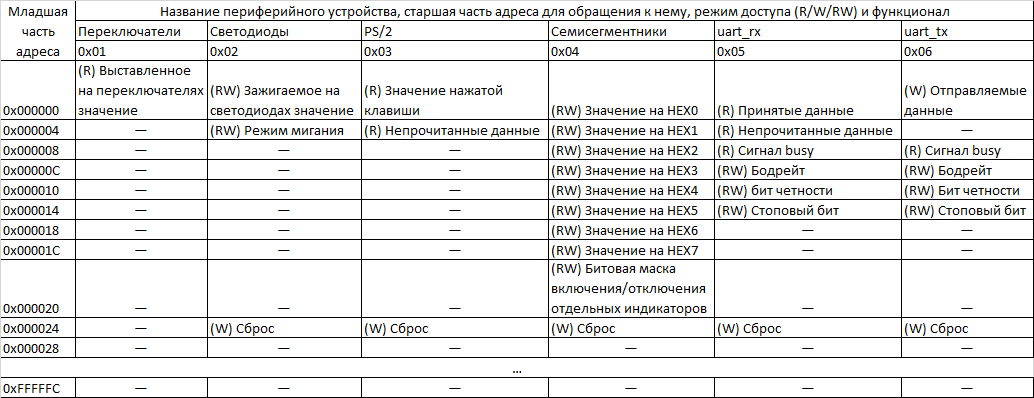
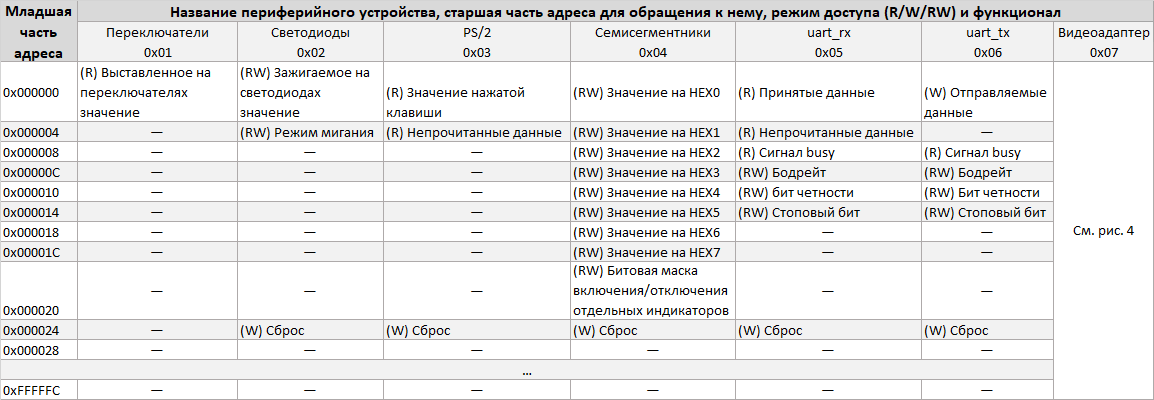
ЛР12. Обновление методички

diff --git a/Labs/12. Peripheral units/README.md b/Labs/12. Peripheral units/README.md
@@ -44,6 +44,7 @@
 4. Семисегментные индикаторы
 5. UART-приемник
 6. UART-передатчик
+7. Видеоадаптер
 
 В таком случае, если мы захотим обратиться в четвертый регистр семисегментных индикаторов, мы должны будем использовать адрес `0x03000004`. Старшие 8 бит (`0x03`) определяют выбранное периферийное устройство, оставшиеся 24 бита определяют конкретный адрес в адресном пространстве этого устройства.
 
@@ -81,19 +82,30 @@ module riscv_unit(
 
   // Входы и выходы периферии
   input  logic [15:0] sw_i,       // Переключатели
+
   output logic [15:0] led_o,      // Светодиоды
+
   input  logic        kclk_i,     // Тактирующий сигнал клавиатуры
   input  logic        kdata_i,    // Сигнал данных клавиатуры
+
   output logic [ 6:0] hex_led_o,  // Вывод семисегментных индикаторов
   output logic [ 7:0] hex_sel_o,  // Селектор семисегментных индикаторов
+
   input  logic        rx_i,       // Линия приема по UART
-  output logic        tx_o        // Линия передачи по UART
+  output logic        tx_o,       // Линия передачи по UART
+
+  output logic [3:0]  vga_r_o,    // красный канал vga
+  output logic [3:0]  vga_g_o,    // зеленый канал vga
+  output logic [3:0]  vga_b_o,    // синий канал vga
+  output logic        vga_hs_o,   // линия горизонтальной синхронизации vga
+  output logic        vga_vs_o    // линия вертикальной синхронизации vga
+
 );
 //...
 endmodule
 ```
 
-Эти порты нужно подключить к одноименным портам ваших контроллеров периферии (**речь идет только о реализуемых вами контроллерах, остальные порты должны остаться неподключенными**).
+Эти порты нужно подключить к одноименным портам ваших контроллеров периферии (**речь идет только о реализуемых вами контроллерах, остальные порты должны остаться неподключенными**). Иными словами, в описании модуля должны быть все указанные входы и выходы. Но использовать вам нужно только порты, связанные с теми периферийными устройствами, реализацию которых вам необходимо подключить к процессорной системе в рамках индивидуального задания.
 
 Обратите внимание на то, что изменился сигнал сброса (`resetn_i`). Буква `n` на конце означает, что сброс работает по уровню `0` (когда сигнал равен нулю — это сброс, когда единице — не сброс).
 
@@ -119,6 +131,8 @@ sys_clk_rst_gen divider(.ex_clk_i(clk_i),.ex_areset_n_i(resetn_i),.div_i(10),.sy
 
 ![Карта памяти](../../.pic/Labs/lab_12_periph/fig_02.png)
 
+_Рисунок 2. Карта памяти периферийных устройств_
+
 Работа с картой осуществляется следующим образом. Под названием каждого периферийного устройства указана старшая часть адреса (чему должны быть равны старшие 8 бит адреса, чтобы было сформировано обращение к данному периферийному устройству). Например, для переключателей это значение равно `0x01`, для светодиодов `0x02` и т.п.
 В самом левом столбце указаны используемые/неиспользуемые адреса в адресном пространстве данного периферийного устройства. Например для переключателей есть только один используемый адрес: `0x000000`. Его функциональное назначение и разрешения на доступ указаны в столбце соответствующего периферийного устройства. Возвращаясь к адресу `0x000000` для переключателей мы видим следующее:
 
@@ -134,6 +148,8 @@ sys_clk_rst_gen divider(.ex_clk_i(clk_i),.ex_areset_n_i(resetn_i),.div_i(10),.sy
 
 Подробное описание периферийных устройств их управления и назначение управляющих регистров будет дано после порядка выполнения задания.
 
+Обратите внимание на то, что у всех модулей периферийных устройств есть выходной сигнал `ready_o`, который должен быть всегда равен единице.
+
 ---
 
 ## Порядок выполнения задания
@@ -143,13 +159,12 @@ sys_clk_rst_gen divider(.ex_clk_i(clk_i),.ex_areset_n_i(resetn_i),.div_i(10),.sy
 3. Реализуйте модули контроллеров периферии. Имена модулей и их порты будут указаны в [описании контроллеров](#описание-контроллеров-периферийных-устройств). Пример разработки контроллера приведен [здесь](../../Basic%20Verilog%20structures/Controllers.md).
 4. Обновите модуль `riscv_unit` в соответствии с разделом ["Дополнительные правки модуля riscv_unit"](#дополнительные-правки-модуля-riscv_unit).
    1. Подключите в проект файл `sys_clk_rst_gen.sv`.
-   2. Добавьте в модуль `riscv_unit` входы и выходы периферии. Необходимо добавить порты даже тех периферийных устройств, которые вы не будете реализовывать.
+   2. Добавьте в модуль `riscv_unit` входы и выходы периферии. **Необходимо добавить порты даже тех периферийных устройств, которые вы не будете реализовывать**.
    3. Создайте в начале описания модуля `riscv_unit` экземпляр модуля `sys_clk_rst_gen`, скопировав приведенный фрагмент кода.
    4. Замените подключение тактового сигнала исходных подмодулей `riscv_unit` на появившийся сигнал `sysclk`. Убедитесь, что на модули имеющие сигнал сброса приходит сигнал `rst`.
 5. Интегрируйте модули контроллеров периферии в процессорную систему по приведенной схеме руководствуясь старшими адресами контроллеров, представленными на карте памяти ([_рис. 2_](../../.pic/Labs/lab_12_periph/fig_02.png)). Это означает, что если вы реализуете контроллер светодиодов, на его вход `req_i` должна подаваться единица в случае если `mem_req_o == 1` и старшие 8 бит адреса равны `0x02`.
    1. При интеграции вы должны подключить только модули-контроллеры вашего варианта. Контроллеры периферии других вариантов подключать не надо.
    2. При этом во время интеграции, вы должны использовать старшую часть адреса, представленную в карте памяти для формирования сигнала `req_i` для ваших модулей-контроллеров.
-   3. Даже если вы не используете какие-то входные/выходные сигналы в модуле `riscv_unit` (например по варианту вам не достался контроллер клавиатуры и поэтому вы не используете сигналы `kclk_i` и `kdata_i`), вы все равно должны их описать во входах и выходах модуля `riscv_unit`.
 6. Проверьте работу процессорной системы с помощью моделирования.
    1. Для каждой пары контроллеров периферии предложено две программы: с обновлением данных по опросу и по прерываниям. Запустите моделирование сначала для одной программы, затем для другой (для этого необходимо обновить файл, инициализирующий память инструкций). После проверки работоспособности процессора, сравните поведение сигналов LSU для этих программ.
 7. Подключите к проекту файл ограничений ([nexys_a7_100t.xdc](nexys_a7_100t.xdc)), если тот еще не был подключен, либо замените его содержимое данными из файла к этой лабораторной работе.
@@ -342,6 +357,8 @@ endmodule
 
 В случае, если произошел запрос на чтение по адресу `0x00`, необходимо выставить на выход `read_data_o` значение регистра `scan_code` (дополнив старшие биты нулями), при этом значение регистра `scan_code_is_unread` необходимо обнулить. В случае, если одновременно с запросом на чтение пришел сигнал `keycode_valid_o`, регистр `scan_code_is_unread` обнулять не нужно (в этот момент в регистр `scan_code` уже записывается новое, еще непрочитанное значение).
 
+Обнуление регистра `scan_code_is_unread` должно происходить и в случае получения сигнала `interrupt_return_i` (однако опять же, если в этот момент приходит сигнал `keycode_valid_o`, обнулять регистр не нужно).
+
 В случае запроса на чтение по адресу `0x04` необходимо вернуть значение регистра `scan_code_is_unread`.
 
 В случае запроса на запись по адресу `0x24` со значением `1`, необходимо осуществить сброс регистров `scan_code` и `scan_code_is_unread` в `0`.
@@ -505,6 +522,7 @@ module uart_rx_sb_ctrl(
 */
 
   output logic        interrupt_request_o,
+  input  logic        interrupt_return_i,
 
 /*
     Часть интерфейса модуля, отвечающая за подключение передающему,
@@ -535,6 +553,7 @@ module uart_tx_sb_ctrl(
   input  logic [31:0]   write_data_i,
   input  logic          write_enable_i,
   output logic [31:0]   read_data_o,
+  output logic          ready_o,
 
 /*
     Часть интерфейса модуля, отвечающая за подключение передающему,
@@ -551,21 +570,21 @@ module uart_tx_sb_ctrl(
 endmodule
 ```
 
-У обоих предоставленных модулей схожий прототип, различия заключаются лишь в направлениях некоторых сигналов:
+У обоих предоставленных модулей схожий прототип, различия заключаются лишь в направлениях сигналов `data` и `valid`.
 
-Управление сигналами этого модуля достаточно просто.
+Взаимодействие модулей `uart_rx` и `uart_tx` с соответствующими модулями-контроллерами осуществляется следующим образом.
 
-Сигналы `clk_i` и `rx_i`/`tx_i` подключаются напрямую к соответствующим сигналам модуля-контроллера.
+Сигналы `clk_i` и `rx_i`/`tx_i` подключаются напрямую к соответствующим сигналам модулей-контроллеров.
 
 Сигнал `rst_i` модулей `uart_rx` / `uart_tx` должен быть равен единице при запросе на запись единицы по адресу `0x24`, а так же в случае когда сигнал `rst_i` модуля-контроллера равен единице.
 
 Выходной сигнал `busy_o` на каждом такте `clk_i` должен записываться в регистр `busy`, доступ на чтение к которому осуществляется по адресу `0x08`.
 
-Значение входных сигналов `baudrate_i`, `parity_en_i`, `stopbit_i` берутся из соответствующих регистров, доступ на запись к которым осуществляется по адресам `0x0C`, `0x10`, `0x14` соответственно, но только в моменты, когда выходной сигнал `busy_o` равен нулю. Иными словами, изменение настроек передачи возможно только в моменты, когда передача не происходит. Доступ на чтение этих регистров может осуществляться в любой момент времени.
+Значения входных сигналов `baudrate_i`, `parity_en_i`, `stopbit_i` берутся из соответствующих регистров, доступ на запись к которым осуществляется по адресам `0x0C`, `0x10`, `0x14` соответственно, но только в моменты, когда выходной сигнал `busy_o` равен нулю. Иными словами, изменение настроек передачи возможно только в моменты, когда передача не происходит. Доступ на чтение этих регистров может осуществляться в любой момент времени.
 
 В регистр `data` модуля `uart_rx_sb_ctrl` записывается значение одноименного выхода модуля `uart_rx` в моменты положительного фронта `clk_i`, когда сигнал `rx_valid_o` равен единице. Доступ на чтение этого регистра осуществляется по адресу `0x00`.
 
-В регистр `valid` модуля `uart_rx_sb_ctrl` записывается единица по положительному фронту clk_i, когда выход `rx_valid_o` равен единице. Данный регистр сбрасывается в ноль при выполнении запроса на чтение по адресу `0x00`. Сам регистр доступен для чтения по адресу `0x04`. Регистр `valid` подключается к выходу `interrupt_request_o`. Что позволяет узнать о пришедших данных и посредством прерывания.
+В регистр `valid` модуля `uart_rx_sb_ctrl` записывается единица по положительному фронту clk_i, когда выход `rx_valid_o` равен единице. Данный регистр сбрасывается в ноль при выполнении запроса на чтение по адресу `0x00`, а так же при получении сигнала `interrupt_return_i`. Сам регистр доступен для чтения по адресу `0x04`. Регистр `valid` подключается к выходу `interrupt_request_o`. Что позволяет узнать о пришедших данных и посредством прерывания.
 
 На вход `tx_data_i` модуля `uart_tx` подаются данные из регистра `data` модуля `uart_tx_sb_ctrl`. Доступ на запись в этот регистр происходит по адресу `0x00` в моменты положительного фронта `clk_i`, когда сигнал `busy_o` равен нулю. Доступ на чтение этого регистра может осуществляться в любой момент времени.
 
@@ -595,3 +614,162 @@ endmodule
 |0x10 | RW          | [0:1]             | Чтение/запись регистра `parity`, отвечающего за включение отключение проверки данных через бит четности |
 |0x14 | RW          | [0:1]             | Чтение/запись регистра `stopbit`, отвечающего за длину стопового бита                                   |
 |0x24 | W           |  1                | Запись сигнала сброса                                                                                   |
+
+### Видеоадаптер
+
+Видеоадаптер позволяет выводить информацию на экран через интерфейс **VGA**. Предоставляемый в данной лабораторной работе vga-модуль способен выводить `80х30` символов (разрешение символа `8x16`). Таким образом, итоговое разрешение экрана, поддерживаемого vga-модулем будет `80*8 x 30*16 = 640x480`. VGA-модуль поддерживает управление цветовой схемой для каждого поля символа в сетке `80х30`. Это значит что каждый символ (и фон символа) может быть отрисован отдельным цветом из диапазона 16-ти цветов.
+
+![../../.pic/Labs/lab_12_periph/fig_03.png](../../.pic/Labs/lab_12_periph/fig_03.png)
+
+_Рисунок 3. Пример вывода на экран символьной информации_
+
+Для управления выводимым на экран содержимым, адресное пространство модуля разделено на следующие диапазоны:
+
+![../../.pic/Labs/lab_12_periph/fig_04.png](../../.pic/Labs/lab_12_periph/fig_04.png)
+
+_Рисунок 4. Карта памяти vga-модуля_
+
+Для того, чтобы вывести символ на экран, необходимо использовать адрес этого символа на сетке `80x30` (диапазон адресов `char_map`). К примеру, мы хотим вывести символ в верхнем левом углу. Это нулевой символ в диапазоне адресов `char_map`. Поскольку данный диапазон начинается с адреса `0x0000_0000`, запись по этому адресу приведет к отображению символа, соответствующего [ASCII-коду](https://www.asciitable.com/), пришедшему на `write_data_i`.
+
+Если мы хотим вывести нулевой (левый) символ в первой строке (счет ведется с нуля), то необходимо произвести запись по адресу `1*80 + 0 = 80 = 0x0000_0050`.
+
+Вывод символа в правом нижнем углу осуществляется записью по адресу `0x0000_095F` (80*30-1)
+
+Установка цветовой схемы осуществляется по тем же самым адресам, к которым прибавлено значение `0x0000_1000`:
+
+* верхний левый символ — `0x0000_1000`
+* нулевой символ первой строки — `0x0000_1050`
+* нижний правый символ — `0x0000_195F`
+
+Цветовая схема каждой позиции состоит из двух цветов: цвета фона и цвета символа. Оба эти цвета выбираются из палитры на 16 цветов, сгруппированной по 8 парам. В каждой паре цвет на своей полной яркости, и половинной яркости. Один из цветов — черный, что на полной, что на половинной яркости он одинаковый. Ниже приведены коды цветов их rgb-значения:
+
+![../../.pic/Labs/lab_12_periph/fig_05.png](../../.pic/Labs/lab_12_periph/fig_05.png)
+
+_Рисунок 5. Цветовая палитра vga-модуля_
+
+Таким образом, для установки цветовой схемы, необходимо выбрать два цвета из палитры, склеить их (в старших разрядах идет цвет символа, в младших — цвет фона) и записать получившееся 8-битное значение по адресу выбранной позиции в диапазоне адресов цветовой схемы (color_map).
+
+К примеру, мы хотим установить черный фоновый цвет и белый цвет в качестве цвета символа для верхней левой позиции. В этом случае, мы должны записать значение `f0` (f(15) — код белого цвета, 0 — код черного цвета) по адресу `0x0000_1000` (нулевой адрес в диапазоне `color_map`).
+
+Для отрисовки символов, мы условно поделили экран на сетку `80х30`, и для каждой позиции в этой сетке определили фоновый и активный цвет. Чтобы модуль мог отрисовать символ на очередной позиции (которая занимает `16х8` пикселей), ему необходимо знать в какой цвет необходимо окрасить каждый пиксель для каждого ascii-кода. Для этого используется память шрифтов.
+
+Допустим, нам необходимо отрисовать символ `F` (ascii-код `0x46`).
+
+![../../.pic/Labs/lab_12_periph/fig_06.png](../../.pic/Labs/lab_12_periph/fig_06.png)
+_Рисунок 6. Отрисовка символа `F` в разрешении 16х8 пикселей._
+
+Данный символ состоит из 16 строчек по 8 пикселей. Каждый пиксель кодируется одним битом (горит/не горит, цвет символа/фоновый цвет). Каждая строчка кодируется одним байтом (8 бит на 8 пикселей). Таким образом, каждый сканкод требует 16 байт памяти.
+
+Данный модуль поддерживает 256 сканкодов. Следовательно, для хранения шрифта под каждый из 256 сканкодов требуется 16 * 256 = 4KiB памяти.
+
+Для хранения шрифтов в модуле отведен диапазон адресов `0x00010000-0x00010FFF`. В отличие от предыдущих диапазонов адресов, где каждый адрес был закреплен за соответствующей позицией символа в сетке `80x30`, адреса данного диапазона распределены следующим образом:
+
+* 0-ой байт — нулевая (верхняя) строчка символа с кодом 0;
+* 1-ый байт — первая строчка символа с кодом 0;
+* ...
+* 15-ый байт — пятнадцатая (нижняя) строчка символа с кодом 0;
+* 16-ый байт — нулевая (верхняя) строчка символа с кодом 1;
+* ...
+* 4095-ый байт — пятнадцатая (нижняя) строчка символа с кодом 255.
+
+Прототип vga-модуля следующий:
+
+```SystemVerilog
+module vgachargen (
+  input  logic          clk_i,            // системный синхроимпульс
+  input  logic          clk100m_i,        // клок с частотой 100МГц
+  input  logic          rst_i,            // сигнал сброса
+
+  /*
+      Интерфейс записи выводимого символа
+  */
+  input  logic [ 9:0]   char_map_addr_i,  // адрес позиции выводимого символа
+  input  logic          char_map_we_i,    // сигнал разрешения записи кода
+  input  logic [ 3:0]   char_map_be_i,    // сигнал выбора байтов для записи
+  input  logic [31:0]   char_map_wdata_i, // ascii-код выводимого символа
+  output logic [31:0]   char_map_rdata_o, // сигнал чтения кода символа
+
+  /*
+      Интерфейс установки цветовой схемы
+  */
+  input  logic [ 9:0]   col_map_addr_i,   // адрес позиции устанавливаемой схемы
+  input  logic          col_map_we_i,     // сигнал разрешения записи схемы
+  input  logic [ 3:0]   col_map_be_i,     // сигнал выбора байтов для записи
+  input  logic [31:0]   col_map_wdata_i,  // код устанавливаемой цветовой схемы
+  output logic [31:0]   col_map_rdata_o,  // сигнал чтения кода схемы
+
+  /*
+      Интерфейс установки шрифта
+  */
+  input  logic [ 9:0]   char_tiff_addr_i, // адрес позиции устанавливаемого шрифта
+  input  logic          char_tiff_we_i,   // сигнал разрешения записи шрифта
+  input  logic [ 3:0]   char_tiff_be_i,   // сигнал выбора байтов для записи
+  input  logic [31:0]   char_tiff_wdata_i,// отображаемые пиксели в текущей позиции шрифта
+  output logic [31:0]   char_tiff_rdata_o,// сигнал чтения пикселей шрифта
+
+
+  output logic [3:0]    vga_r_o,          // красный канал vga
+  output logic [3:0]    vga_g_o,          // зеленый канал vga
+  output logic [3:0]    vga_b_o,          // синий канал vga
+  output logic          vga_hs_o,         // линия горизонтальной синхронизации vga
+  output logic          vga_vs_o          // линия вертикальной синхронизации vga
+);
+```
+
+Для управления данным модулем, необходимо написать модуль-контроллер со следующим прототипом:
+
+```SystemVerilog
+module vga_sb_ctrl (
+  input  logic        clk_i,
+  input  logic        rst_i,
+  input  logic        clk100m_i,
+  input  logic        req_i,
+  input  logic        write_enable_i,
+  input  logic [3:0]  mem_be_i,
+  input  logic [31:0] addr_i,
+  input  logic [31:0] write_data_i,
+  output logic [31:0] read_data_o,
+  output logic        ready_o,
+
+  output logic [3:0]  vga_r_o,
+  output logic [3:0]  vga_g_o,
+  output logic [3:0]  vga_b_o,
+  output logic        vga_hs_o,
+  output logic        vga_vs_o
+);
+```
+
+Реализация данного модуля исключительно простая. В первую очередь необходимо подключить одноименные сигналы напрямую:
+
+* `clk_i`,
+* `rst_i`,
+* `clk100m_i`,
+* `vga_r_o`,
+* `vga_g_o`,
+* `vga_b_o`,
+* `vga_hs_o`,
+* `vga_vs_o`
+
+Кроме того, необходимо:
+
+1. подключить напрямую сигнал `write_data_i` ко входам:
+   1. `char_map_wdata_i`,
+   2. `col_map_wdata_i`,
+   3. `char_tff_wdata_i`,
+2. подключить биты `addr_i[11:2]` ко входам:
+   1. `char_map_addr_i`,
+   2. `col_map_addr_i`,
+   3. `char_tiff_addr_i`,
+3. сигнал `mem_be_i` подключить ко входам:
+   1. `char_map_be_i`,
+   2. `col_map_be_i`,
+   3. `char_tiff_be_i`.
+
+Остается только разобраться с сигналами `write_enable_i` и `read_data_o`.
+
+Оба эти сигнала мультиплексируются / демультиплексируются с помощью одного и того же управляющего сигнала: `addr_i[13:12]` в соответствии с диапазонами адресов (рис. 3):
+
+* `addr_i[13:12] == 2'b00` — сигнал `write_enable_i` поступает на вход `char_map_we_i`, выход `char_map_rdata_o` записывается в выходной регистр `read_data_o`;
+* `addr_i[13:12] == 2'b01` — сигнал `write_enable_i` поступает на вход `col_map_we_i`, выход `col_map_rdata_o` записывается в выходной регистр `read_data_o`;
+* `addr_i[13:12] == 2'b10` — сигнал `write_enable_i` поступает на вход `char_tiff_we_i`, выход `char_tiff_rdata_o` записывается в выходной регистр `read_data_o`.
+
